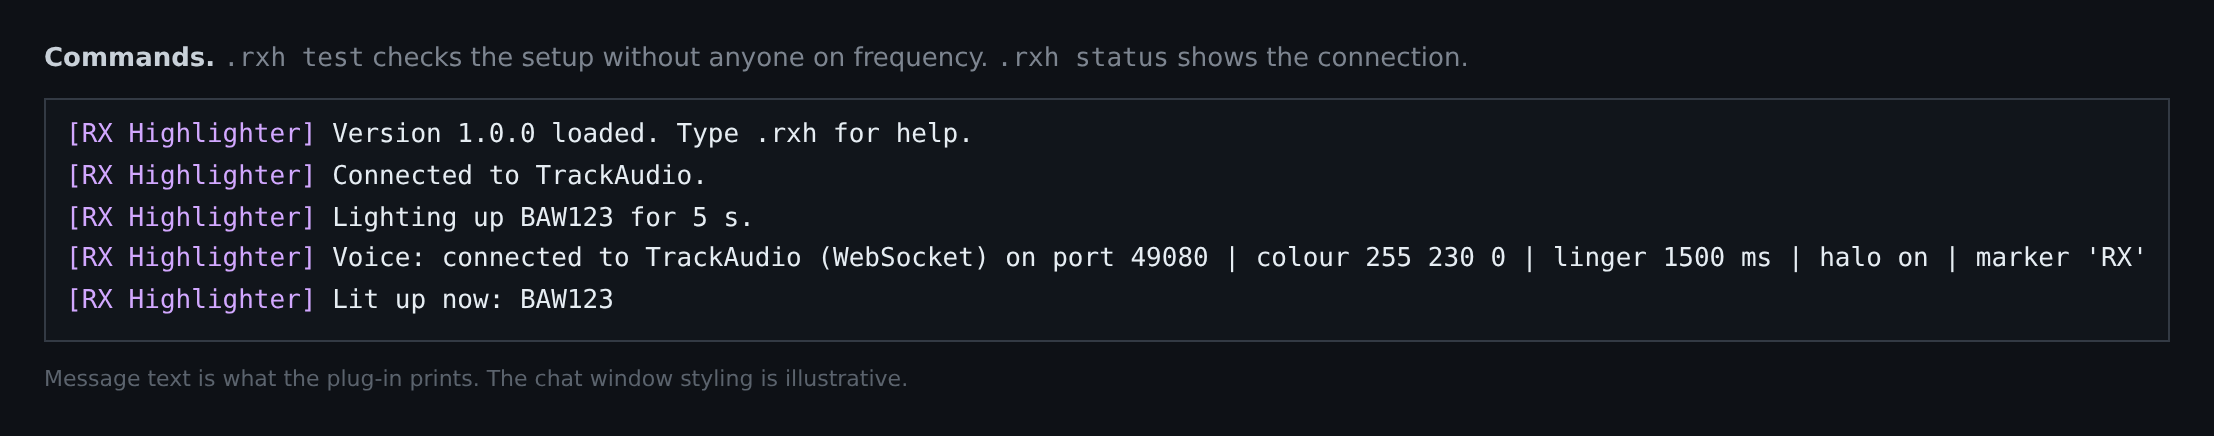
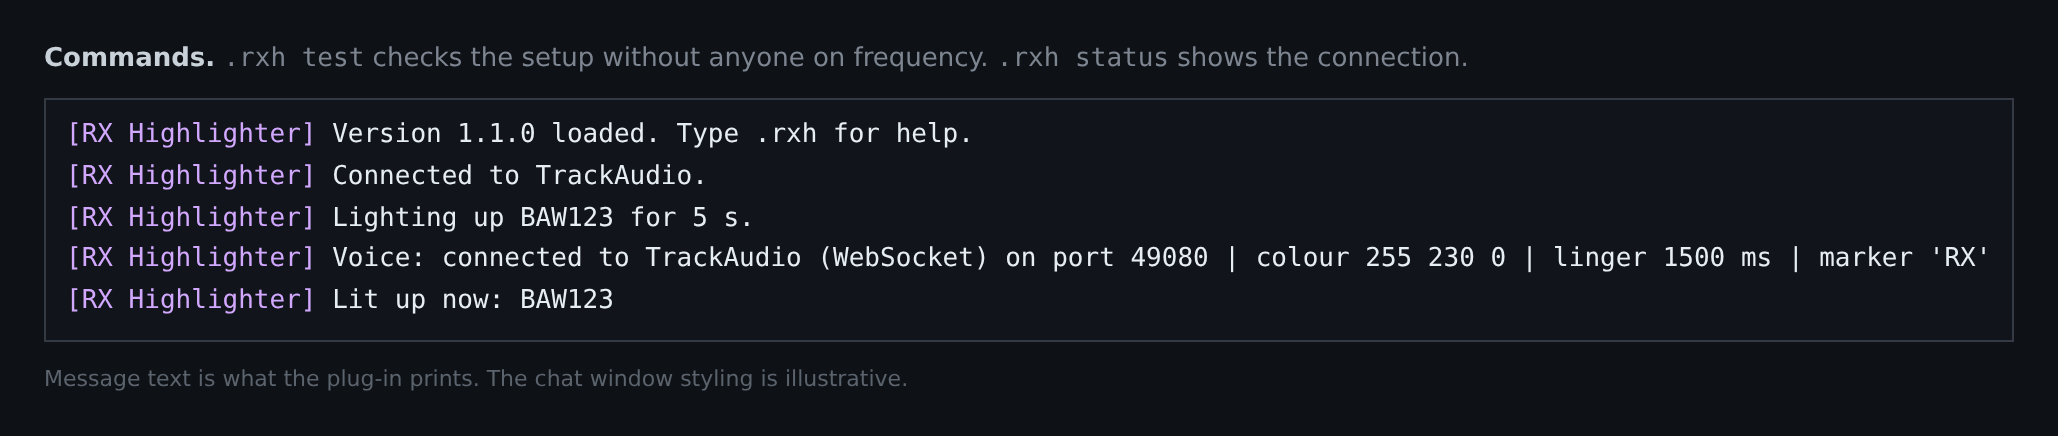
Highlight in the lists only, not on the radar
Remove the radar ring and the .rxh halo command. The plug-in's radar
screen object now draws nothing and is kept only to request a redraw,
so the list updates as soon as someone starts or stops transmitting.
README and illustrations updated to match. Version 1.1.0.

Claude-Session: https://claude.ai/code/session_01E2aZbooZKuXC8DE8BjnyjF

diff --git a/docs/images/illustrations.html b/docs/images/illustrations.html
@@ -55,46 +55,6 @@
 
 <br><br>
 
-<!-- 2: radar ring -->
-<div class="shot" id="radar">
-  <div class="caption"><b>Radar ring</b> (optional, <code>.rxh halo on|off</code>). The aircraft that is talking gets a ring in the highlight colour.</div>
-  <svg width="760" height="420" viewBox="0 0 760 420" xmlns="http://www.w3.org/2000/svg" style="display:block;background:#0b1a24">
-    <defs><pattern id="g" width="40" height="40" patternUnits="userSpaceOnUse"><path d="M40 0H0V40" fill="none" stroke="#12283a" stroke-width="1"/></pattern></defs>
-    <rect width="760" height="420" fill="url(#g)"/>
-    <!-- airways / coastline-ish lines -->
-    <path d="M30 380 L250 230 L520 170 L740 60" stroke="#1d3a52" stroke-width="2" fill="none"/>
-    <path d="M60 60 L300 200 L460 360" stroke="#1d3a52" stroke-width="2" fill="none"/>
-    <path d="M520 170 L700 330" stroke="#1d3a52" stroke-width="2" fill="none"/>
-    <!-- runway -->
-    <rect x="300" y="262" width="110" height="5" fill="#3b5a72" transform="rotate(-8 355 264)"/>
-    <g font-family="Consolas, 'DejaVu Sans Mono', monospace" font-size="13">
-      <!-- target 1 transmitting -->
-      <circle cx="430" cy="196" r="15" fill="none" stroke="#ffe600" stroke-width="2.4"/>
-      <rect x="425" y="191" width="10" height="10" fill="none" stroke="#7ee787" stroke-width="1.6"/>
-      <line x1="436" y1="190" x2="470" y2="160" stroke="#7ee787" stroke-width="1"/>
-      <text x="474" y="148" fill="#ffe600" font-weight="bold">BAW123</text>
-      <text x="474" y="164" fill="#7ee787">060 B77W</text>
-      <text x="474" y="180" fill="#7ee787">CPT 250</text>
-      <!-- other targets -->
-      <rect x="215" y="235" width="10" height="10" fill="none" stroke="#7ee787" stroke-width="1.6"/>
-      <line x1="214" y1="234" x2="180" y2="205" stroke="#7ee787" stroke-width="1"/>
-      <text x="110" y="190" fill="#7ee787">EZY45K</text>
-      <text x="110" y="206" fill="#7ee787">040 A320</text>
-      <rect x="590" y="300" width="10" height="10" fill="none" stroke="#79c0ff" stroke-width="1.6"/>
-      <line x1="601" y1="309" x2="630" y2="335" stroke="#79c0ff" stroke-width="1"/>
-      <text x="634" y="345" fill="#79c0ff">VIR3</text>
-      <text x="634" y="361" fill="#79c0ff">080 A35K</text>
-      <rect x="120" y="90" width="10" height="10" fill="none" stroke="#5f6b78" stroke-width="1.4"/>
-      <text x="138" y="88" fill="#5f6b78">DLH4TG</text>
-      <rect x="660" y="80" width="10" height="10" fill="none" stroke="#5f6b78" stroke-width="1.4"/>
-      <text x="678" y="78" fill="#5f6b78">SAS512</text>
-    </g>
-  </svg>
-  <div class="note">Illustration, not a real EuroScope screenshot. Needs "Allowed to draw on types" set in the Plug-ins dialog.</div>
-</div>
-
-<br><br>
-
 <!-- 3: column setup -->
 <div class="shot" id="setup">
   <div class="caption"><b>Setup.</b> Change the Callsign column's tag item type. Keep the same mouse functions so UKCP / SRD tools still work.</div>
@@ -134,10 +94,10 @@
 <div class="shot" id="messages">
   <div class="caption"><b>Commands.</b> <code>.rxh test</code> checks the setup without anyone on frequency. <code>.rxh status</code> shows the connection.</div>
   <div class="msgs">
-    <div><span class="h">[RX Highlighter]</span> <span class="c">Version 1.0.0 loaded. Type .rxh for help.</span></div>
+    <div><span class="h">[RX Highlighter]</span> <span class="c">Version 1.1.0 loaded. Type .rxh for help.</span></div>
     <div><span class="h">[RX Highlighter]</span> <span class="c">Connected to TrackAudio.</span></div>
     <div><span class="h">[RX Highlighter]</span> <span class="c">Lighting up BAW123 for 5 s.</span></div>
-    <div><span class="h">[RX Highlighter]</span> <span class="c">Voice: connected to TrackAudio (WebSocket) on port 49080 | colour 255 230 0 | linger 1500 ms | halo on | marker 'RX'</span></div>
+    <div><span class="h">[RX Highlighter]</span> <span class="c">Voice: connected to TrackAudio (WebSocket) on port 49080 | colour 255 230 0 | linger 1500 ms | marker 'RX'</span></div>
     <div><span class="h">[RX Highlighter]</span> <span class="c">Lit up now: BAW123</span></div>
   </div>
   <div class="note">Message text is what the plug-in prints. The chat window styling is illustrative.</div>

diff --git a/src/RxHighlightPlugin.cpp b/src/RxHighlightPlugin.cpp
@@ -96,9 +96,6 @@ void RxHighlightPlugin::LoadSettings()
             linger_ = std::chrono::milliseconds(ms);
         }
     }
-    if (const char* v = GetDataFromSettings("RxHalo")) {
-        halo_ = std::string(v) != "0";
-    }
     if (const char* v = GetDataFromSettings("RxMarker")) {
         if (*v != '\0') {
             marker_ = v;
@@ -226,7 +223,6 @@ void RxHighlightPlugin::ShowHelp()
     Message(std::string(kCommand) + " status               - connection and settings");
     Message(std::string(kCommand) + " colour R G B         - highlight colour, e.g. .rxh colour 255 230 0");
     Message(std::string(kCommand) + " linger MS            - keep lit for MS after RX ends (0-10000)");
-    Message(std::string(kCommand) + " halo on|off          - ring around the target on the radar");
     Message(std::string(kCommand) + " marker TEXT          - text for the 'Transmitting marker' item");
     Message(std::string(kCommand) + " port N               - voice client port (default 49080)");
     Message(std::string(kCommand) + " test CALLSIGN [SEC]  - pretend CALLSIGN is transmitting");
@@ -242,14 +238,13 @@ void RxHighlightPlugin::ShowStatus()
     std::snprintf(
         buf,
         sizeof(buf),
-        "Voice: %s on port %u | colour %d %d %d | linger %ld ms | halo %s | marker '%s'",
+        "Voice: %s on port %u | colour %d %d %d | linger %ld ms | marker '%s'",
         statusText,
         static_cast<unsigned>(port_),
         GetRValue(colour_),
         GetGValue(colour_),
         GetBValue(colour_),
         static_cast<long>(linger_.count()),
-        halo_ ? "on" : "off",
         marker_.c_str());
     Message(buf);
 
@@ -290,13 +285,6 @@ bool RxHighlightPlugin::OnCompileCommand(const char* sCommandLine)
         linger_ = std::chrono::milliseconds(ms);
         SaveDataToSettings("RxLingerMs", "RX Highlighter linger (ms)", std::to_string(ms).c_str());
         Message("Linger set to " + std::to_string(ms) + " ms.");
-    } else if (sub == "halo" && args.size() == 3 && (Lower(args[2]) == "on" || Lower(args[2]) == "off")) {
-        halo_ = Lower(args[2]) == "on";
-        SaveDataToSettings("RxHalo", "RX Highlighter radar ring", halo_ ? "1" : "0");
-        for (auto* screen : screens_) {
-            screen->RequestRefresh();
-        }
-        Message(std::string("Radar ring ") + (halo_ ? "on." : "off."));
     } else if (sub == "marker" && args.size() >= 3) {
         marker_ = args[2];
         if (marker_.size() > 15) {

diff --git a/src/RxRadarScreen.cpp b/src/RxRadarScreen.cpp
@@ -8,39 +8,6 @@ RxRadarScreen::RxRadarScreen(RxHighlightPlugin* owner) : owner_(owner)
 {
 }
 
-void RxRadarScreen::OnRefresh(HDC hDC, int Phase)
-{
-    if (owner_ == nullptr || Phase != EuroScopePlugIn::REFRESH_PHASE_BEFORE_TAGS || !owner_->HaloEnabled()) {
-        return;
-    }
-    const auto& transmitting = owner_->Transmitting();
-    if (transmitting.empty()) {
-        return;
-    }
-
-    const RECT area = GetRadarArea();
-    HPEN pen = CreatePen(PS_SOLID, 2, owner_->HighlightColour());
-    HGDIOBJ oldPen = SelectObject(hDC, pen);
-    HGDIOBJ oldBrush = SelectObject(hDC, GetStockObject(HOLLOW_BRUSH));
-
-    constexpr int radius = 14;
-    for (const auto& callsign : transmitting) {
-        EuroScopePlugIn::CRadarTarget target = owner_->RadarTargetSelect(callsign.c_str());
-        if (!target.IsValid()) {
-            continue;
-        }
-        const POINT p = ConvertCoordFromPositionToPixel(target.GetPosition().GetPosition());
-        if (p.x < area.left || p.x > area.right || p.y < area.top || p.y > area.bottom) {
-            continue;
-        }
-        Ellipse(hDC, p.x - radius, p.y - radius, p.x + radius, p.y + radius);
-    }
-
-    SelectObject(hDC, oldBrush);
-    SelectObject(hDC, oldPen);
-    DeleteObject(pen);
-}
-
 void RxRadarScreen::OnAsrContentToBeClosed()
 {
     if (owner_ != nullptr) {

diff --git a/src/RxRadarScreen.h b/src/RxRadarScreen.h
@@ -8,15 +8,16 @@ namespace RxHighlight {
 
 class RxHighlightPlugin;
 
-// Draws a ring around the radar target of whoever is transmitting.
-// It never registers clickable screen objects, so it cannot steal clicks
-// or menus from UK Controller Plugin / vFPC / TopSky etc.
+// Draws nothing. It only exists so the plug-in can ask EuroScope to redraw
+// (RequestRefresh) as soon as someone starts or stops transmitting, which
+// makes the list update straight away. Nothing is drawn on the radar and no
+// clickable screen objects are registered, so it cannot affect the radar
+// picture or steal clicks/menus from UKCP, vFPC, TopSky etc.
 class RxRadarScreen final : public EuroScopePlugIn::CRadarScreen
 {
 public:
     explicit RxRadarScreen(RxHighlightPlugin* owner);
 
-    void OnRefresh(HDC hDC, int Phase) override;
     void OnAsrContentToBeClosed() override;
 
     // Called if the plugin is unloaded before the display is closed.

diff --git a/src/RxHighlightPlugin.h b/src/RxHighlightPlugin.h
@@ -47,9 +47,6 @@ public:
     // Called by RxRadarScreen.
     void RadarScreenClosed(RxRadarScreen* screen);
     bool IsTransmitting(const std::string& normalisedCallsign) const;
-    const std::set<std::string>& Transmitting() const { return transmitting_; }
-    COLORREF HighlightColour() const { return colour_; }
-    bool HaloEnabled() const { return halo_; }
 
 private:
     void LoadSettings();
@@ -74,7 +71,6 @@ private:
     // Settings
     COLORREF colour_ = RGB(255, 230, 0);
     std::chrono::milliseconds linger_{1500};
-    bool halo_ = true;
     std::string marker_ = "RX";
     std::uint16_t port_ = 49080;
 };

diff --git a/src/Version.h b/src/Version.h
@@ -1,5 +1,5 @@
 #pragma once
 
 #define RXH_PLUGIN_NAME "RX Highlighter"
-#define RXH_VERSION_STRING "1.0.0"
+#define RXH_VERSION_STRING "1.1.0"
 #define RXH_AUTHOR "RX Highlighter contributors"

diff --git a/README.md b/README.md
@@ -1,12 +1,12 @@
 # RX Highlighter – EuroScope plug-in
 
-Makes an aircraft's callsign **light up** in your EuroScope lists (departure list, arrival list,
-SIL, etc.) and tags **while that pilot is talking on frequency**. It can also draw a ring
-around the aircraft on the radar.
+Makes an aircraft's callsign **light up in your EuroScope lists** (departure list, arrival list,
+SIL, etc.) **while that pilot is talking on frequency**.
+
+It only changes the lists you set it up in. Nothing is drawn on the radar screen, and your
+radar tags stay exactly as they are.
 
 ![Departure list: BAW123's callsign lights up yellow with an RX marker while it transmits](docs/images/list.png)
-
-![Radar: a yellow ring around BAW123 while it transmits](docs/images/radar.png)
 
 <sub>These images are illustrations of the plug-in's behaviour, not real EuroScope screenshots.
 Colours and columns depend on your profile. Source: `docs/images/illustrations.html`.</sub>
@@ -31,11 +31,11 @@ Built to load next to **UK Controller Plugin (UKCP)** and the SRD tools
 * Own command prefix (`.rxh`), so it never takes `.ukcp` or `.vfpc` commands.
 * Own tag items, all prefixed `RX Highlighter:`. EuroScope scopes item IDs per plug-in,
   so they can't clash with UKCP or vFPC items.
-* Its radar drawing adds **no clickable screen objects**, so it can't steal clicks, menus or
-  ASR settings from UKCP or vFPC.
+* Draws **nothing on the radar** and adds no clickable screen objects, so it can't steal
+  clicks, menus or ASR settings from UKCP or vFPC.
 * Never calls EuroScope from its background thread. The network thread only touches its own
   data, and unloading or closing EuroScope takes well under a second.
-* No conflicting settings keys (`RxColour`, `RxLingerMs`, `RxHalo`, `RxMarker`, `RxPort`).
+* No conflicting settings keys (`RxColour`, `RxLingerMs`, `RxMarker`, `RxPort`).
 * Talks only to `127.0.0.1:49080`, as a client. Neither UKCP nor vFPC uses that port.
 
 ## Install
@@ -44,9 +44,7 @@ Built to load next to **UK Controller Plugin (UKCP)** and the SRD tools
    controller pack (`...\UK\Data\Plugin\`).
 2. EuroScope → **OTHER SET → Plug-ins… → Load** → choose `RxHighlighter.dll`.
    UKCP and vFPC stay loaded as normal. Load order does not matter.
-3. For the radar ring, select RX Highlighter in the Plug-ins dialog and add your display type
-   (e.g. `Standard ES radar screen`) to **Allowed to draw on types**.
-4. Save your profile/plug-in settings when EuroScope asks, so the plug-in loads next time.
+3. Save your profile/plug-in settings when EuroScope asks, so the plug-in loads next time.
 
 ## Make the list line light up
 
@@ -55,8 +53,8 @@ plug-in provides a callsign column that changes colour itself:
 
 ![Setup: change the Callsign column's tag item type and keep the same mouse functions](docs/images/setup.png)
 
-1. Open the list (e.g. Departure List) → click the list's header menu → **Columns setup**
-   (or the tag editor for radar tags).
+1. Open the list (e.g. Departure List) → click the list's header menu → **Columns setup**.
+   Leave your radar tag definitions alone, so the radar doesn't change.
 2. Select the **Callsign** column and change its *Tag item type* to
    **`RX Highlighter: Callsign (lights up on RX)`**.
 3. **Set the column's left/right mouse-button functions to what they were before.** This is
@@ -81,7 +79,6 @@ Check your setup without anyone talking: `.rxh test BAW123` lights up BAW123 for
 | `.rxh status` | Connection state, settings and who is lit up |
 | `.rxh colour R G B` | Highlight colour (default `255 230 0`, bright yellow) |
 | `.rxh linger MS` | Stay lit for MS after the transmission ends (default 1500, 0–10000) |
-| `.rxh halo on\|off` | Ring around the aircraft on the radar (default on) |
 | `.rxh marker TEXT` | Text shown by the marker item (default `RX`) |
 | `.rxh port N` | Voice client port (default 49080) |
 | `.rxh test CALLSIGN [SEC]` | Pretend CALLSIGN is transmitting (1–60 s, default 5) |
@@ -123,7 +120,7 @@ it from the workflow run's *Artifacts*.
 ```
 src/dllmain.cpp            EuroScope entry points
 src/RxHighlightPlugin.*    Tag items, commands, settings, 1 s refresh
-src/RxRadarScreen.*        Optional ring around transmitting aircraft
+src/RxRadarScreen.*        Redraw hook only (draws nothing on the radar)
 src/VoiceClient.*          Background Winsock client (WebSocket, then HTTP fallback)
 src/WebSocketCodec.*       Minimal RFC 6455 framing + HTTP response parsing
 src/VoiceMessage.*         TrackAudio JSON message parsing
